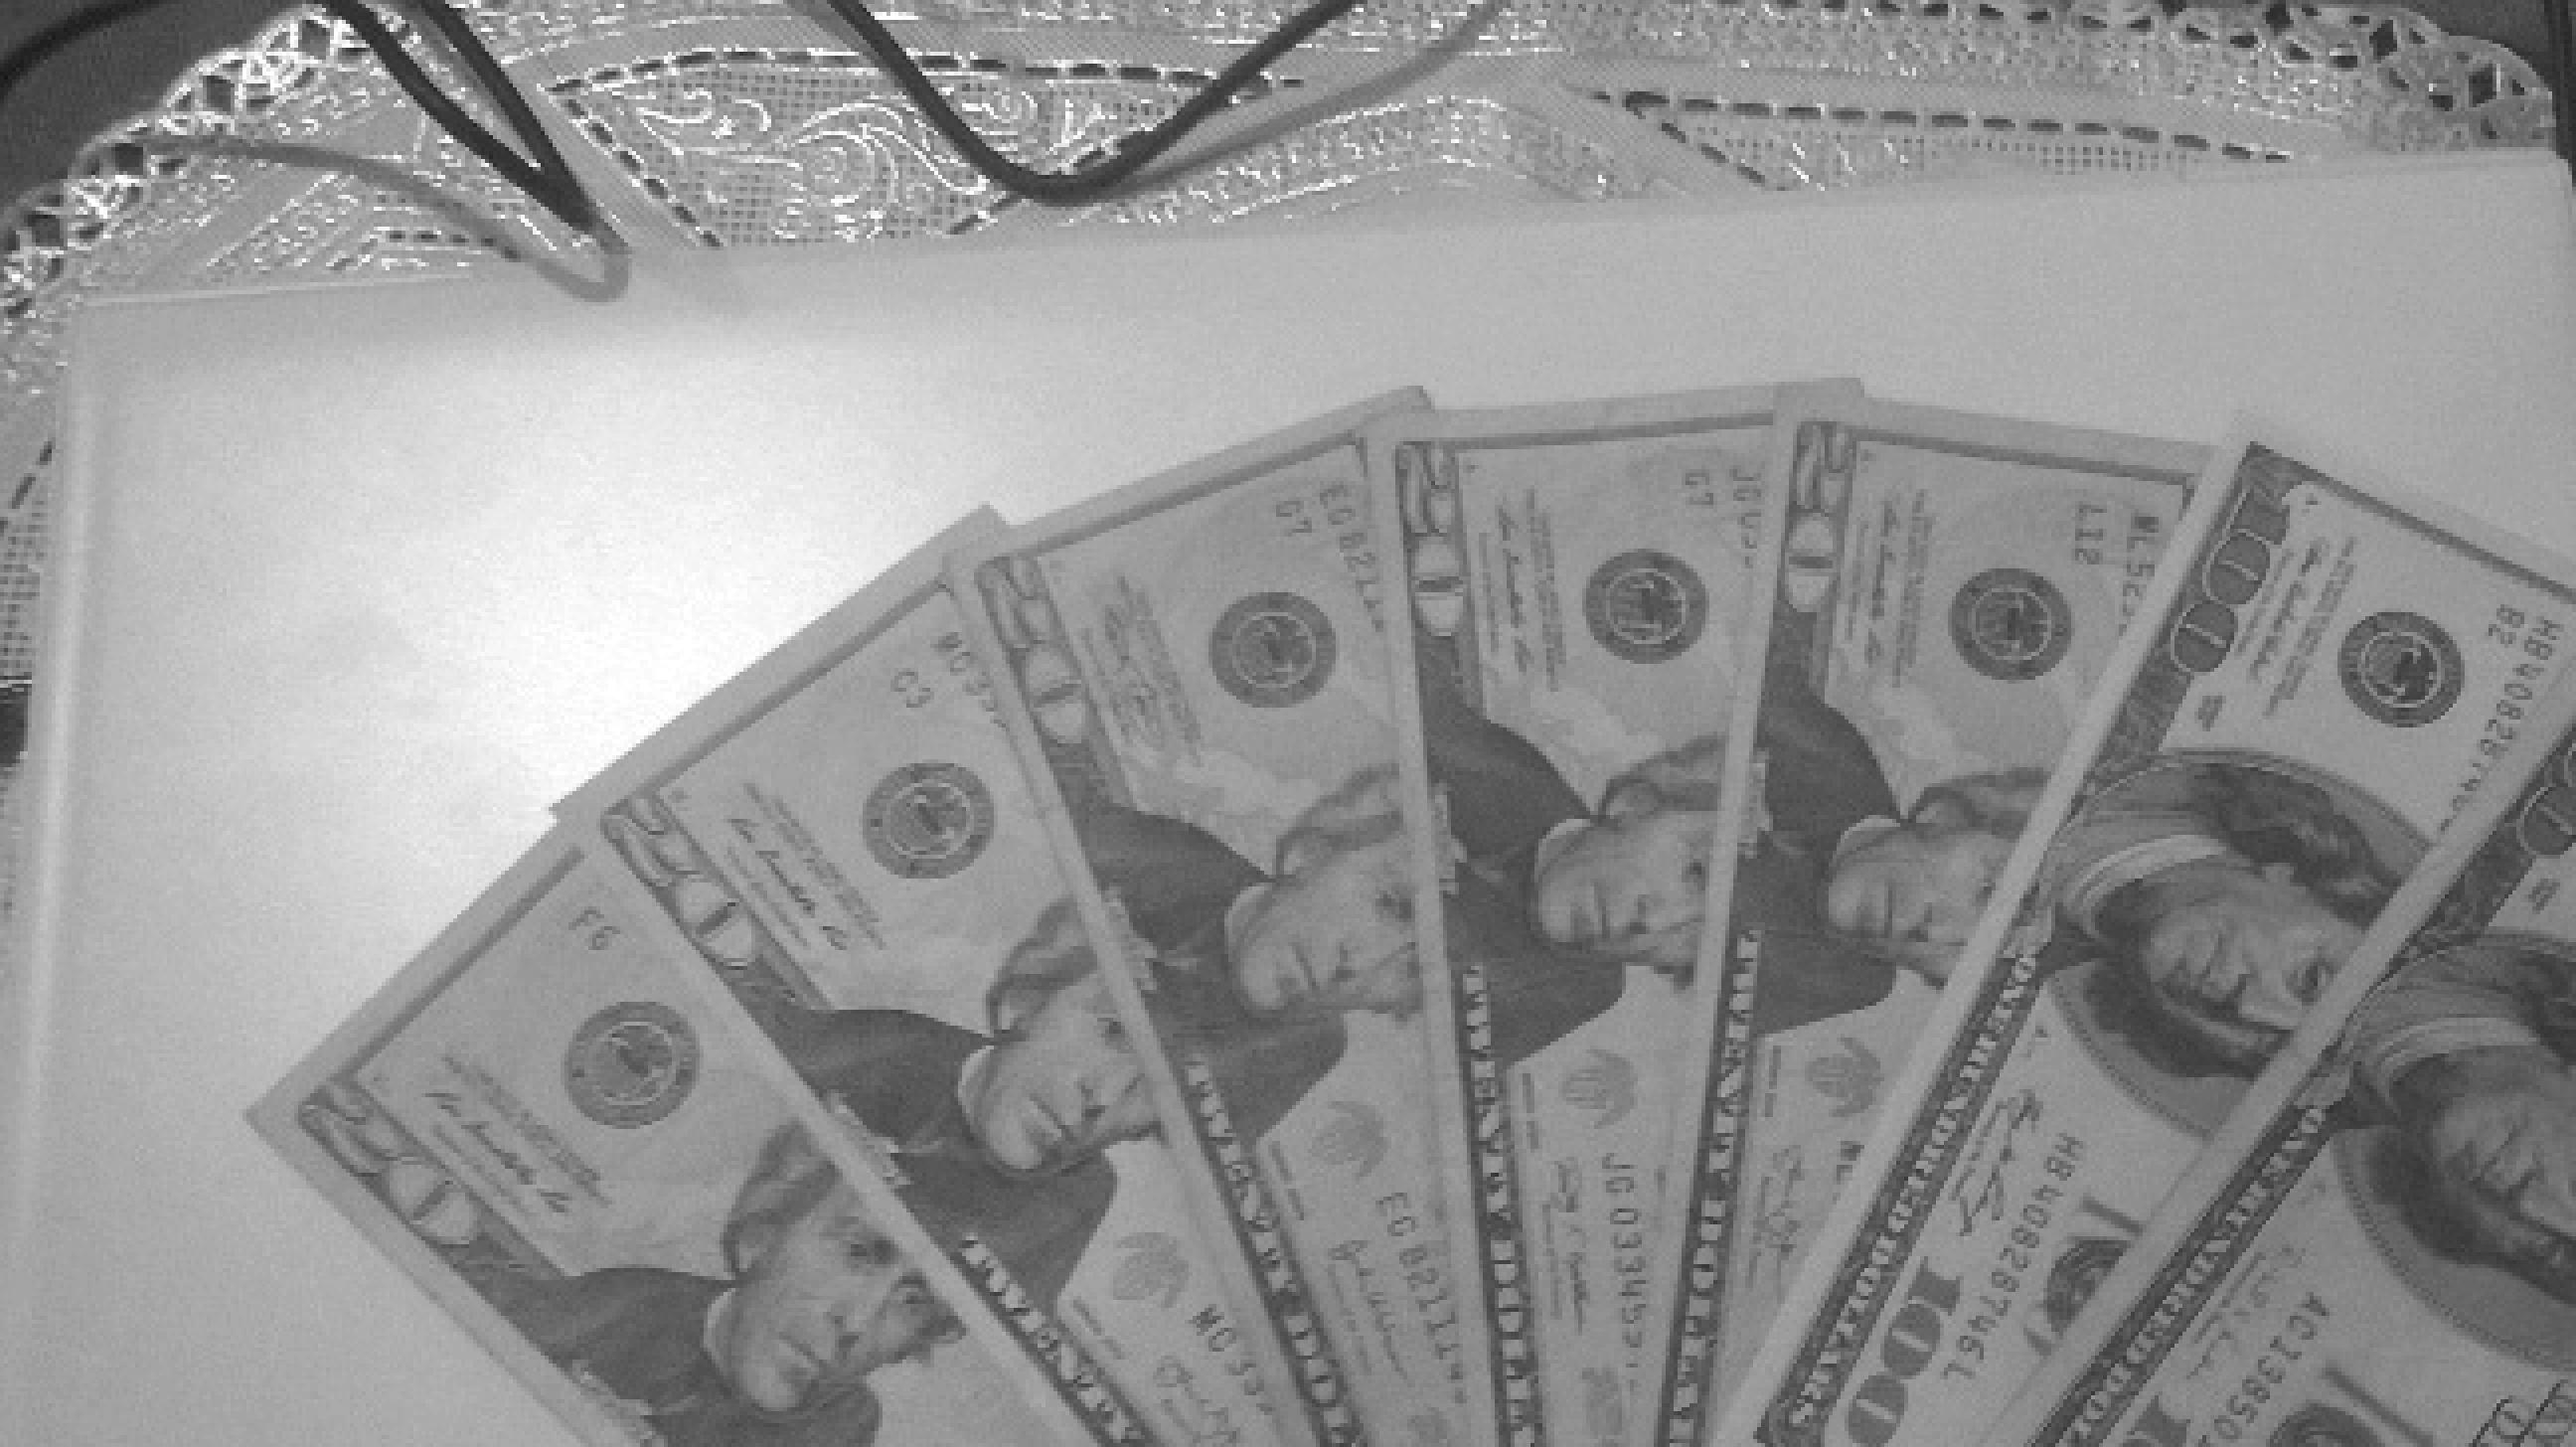
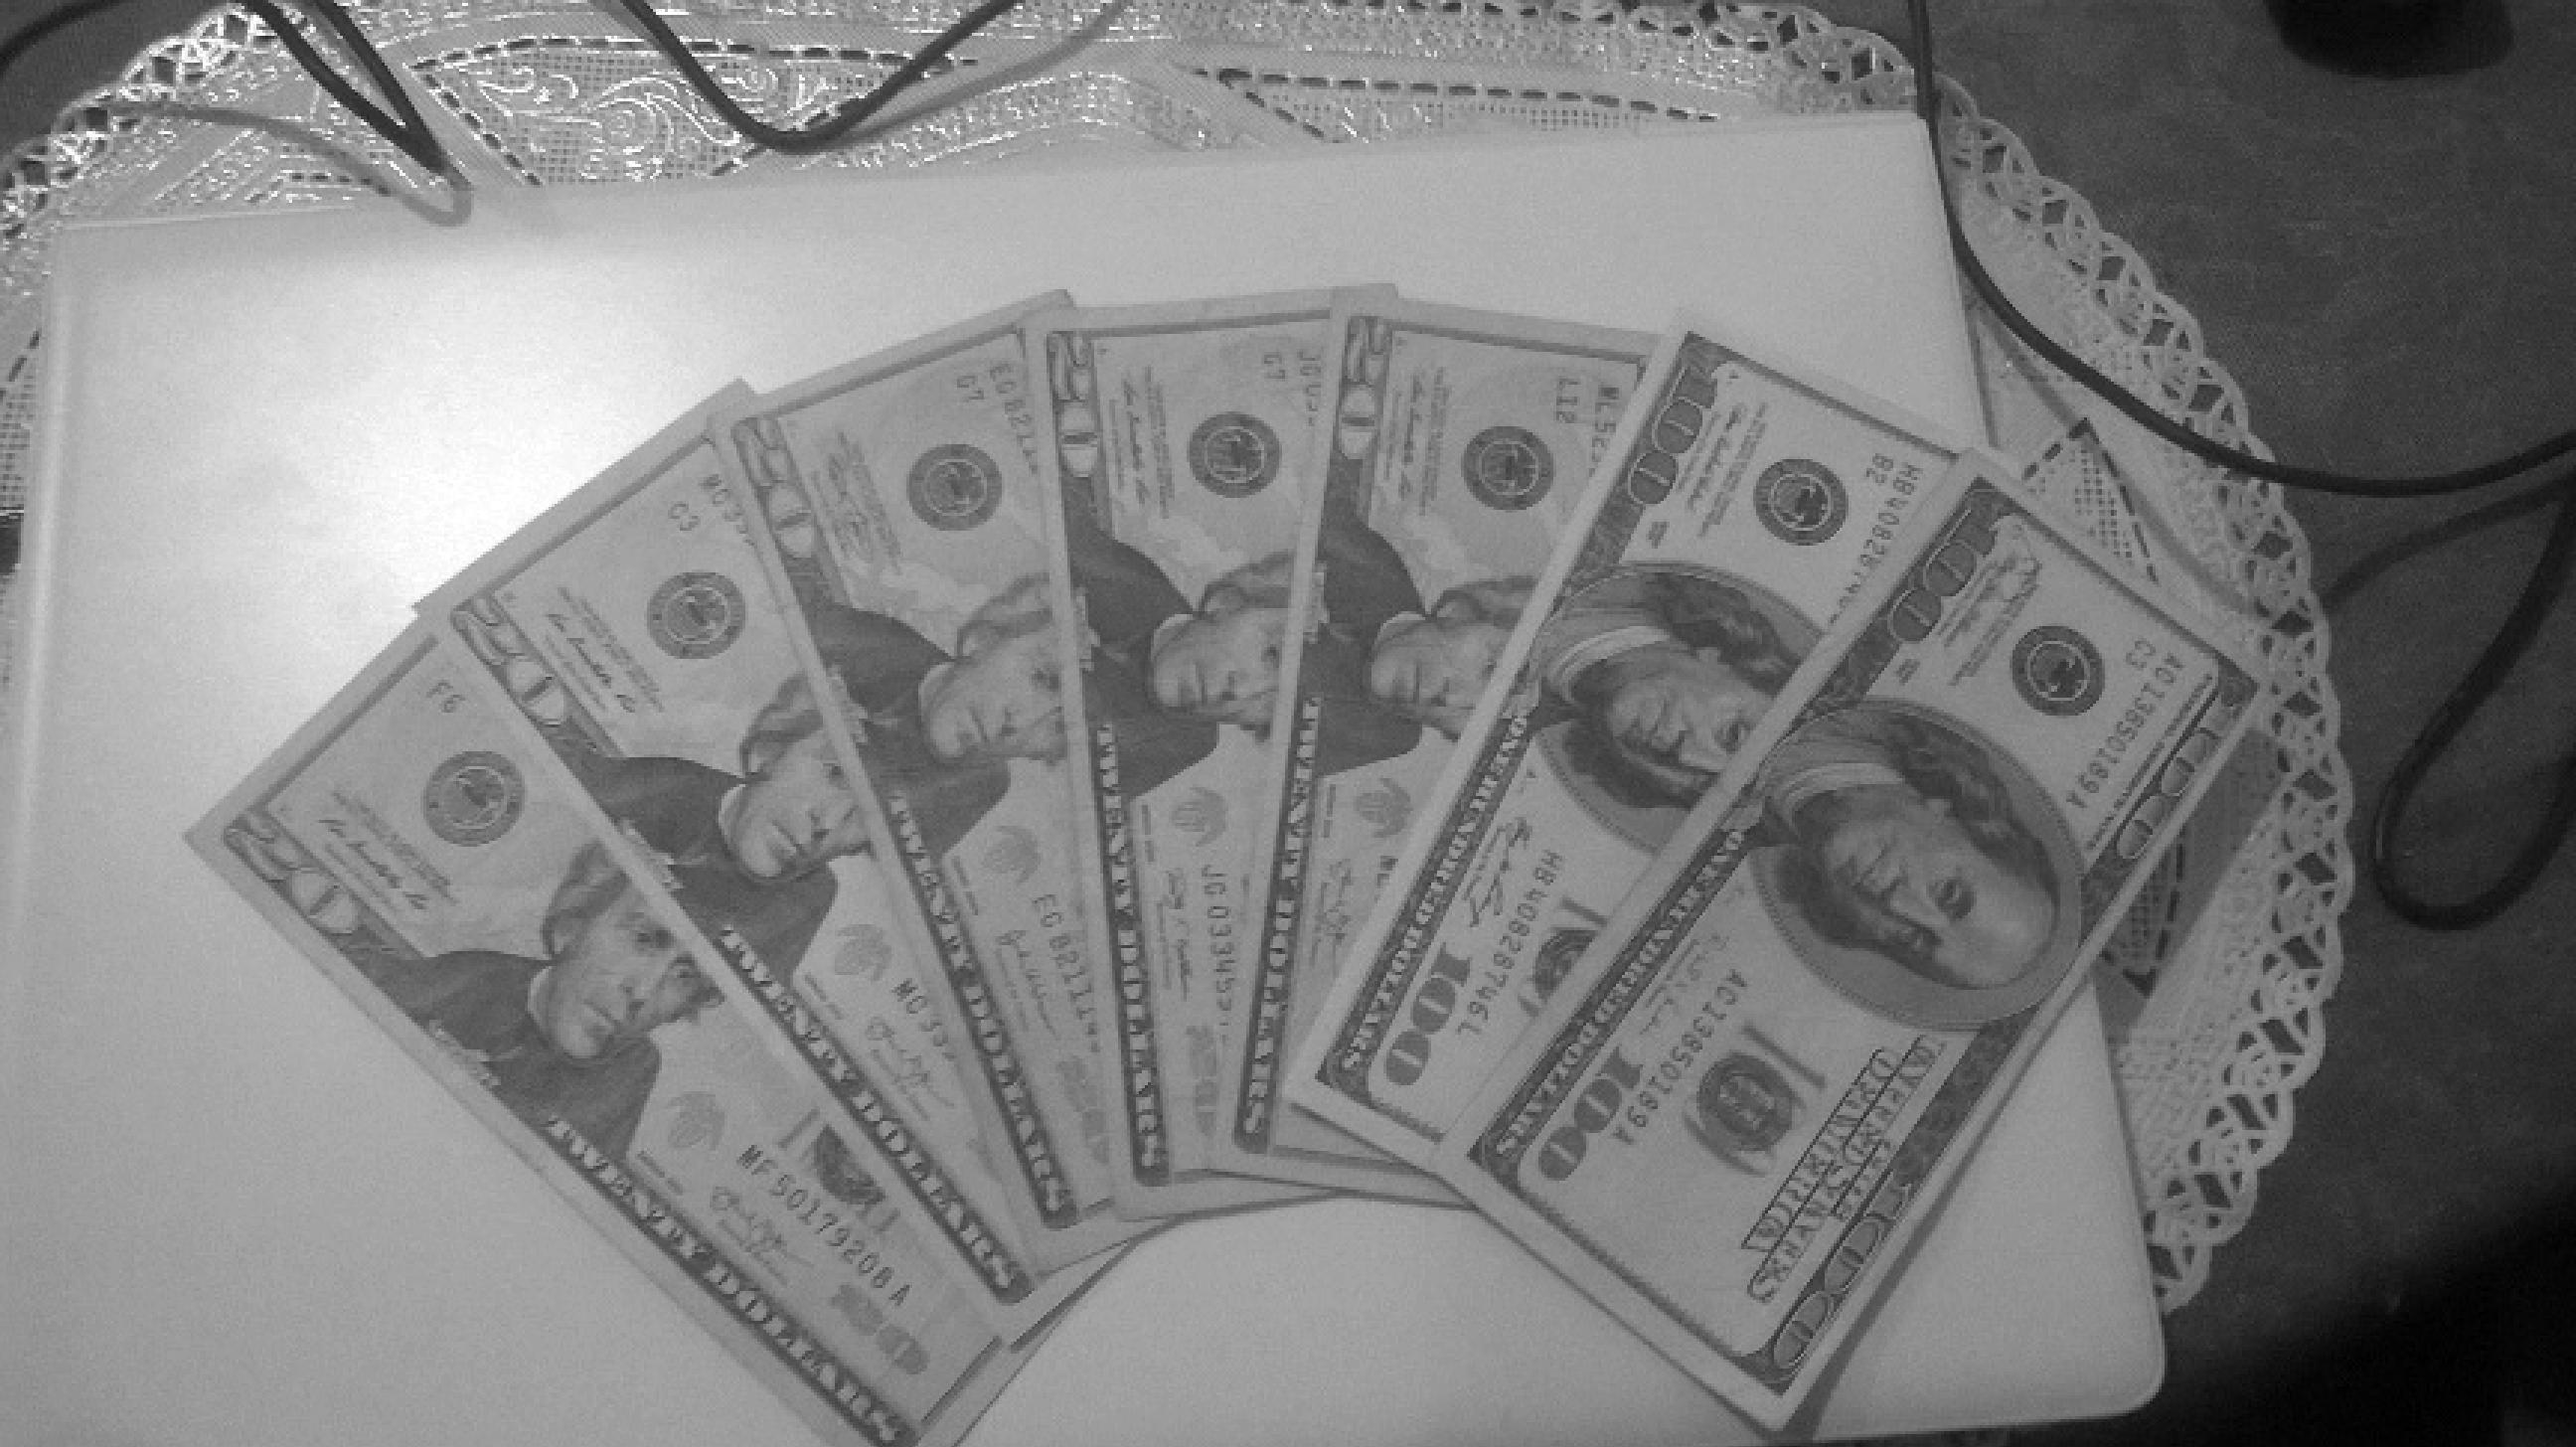
Algoritmo Ajustado

diff --git a/src/pdi/br/poli/ecomp/ConfigImage.java b/src/pdi/br/poli/ecomp/ConfigImage.java
@@ -1,7 +1,6 @@
 package pdi.br.poli.ecomp;
 
 import javax.imageio.ImageIO;
-import java.awt.*;
 import java.awt.image.BufferedImage;
 import java.io.File;
 import java.io.IOException;
@@ -23,33 +22,29 @@ public class ConfigImage {
     }
 
     public void zoonIn() {
-        try {
-            int n = origWidth / atualWidth;
-            int w = origWidth;
-            int h = origHeight;
-            File processedDir = new File("processed");
+            try {
+                int n =  origWidth / atualWidth + 1;
 
-            if (!processedDir.exists()) {
-                processedDir.mkdir();
+                int w = origWidth;
+                int h = origHeight;
+
+
+                BufferedImage atualImage = ImageIO.read(new File(name));
+                BufferedImage originalImage = new BufferedImage(w, h, atualImage.getType());
+                for (int y=0; y < h; ++y)
+                    for (int x=0; x < w; ++x)
+                        originalImage.setRGB(x, y, atualImage.getRGB(x/n, y/n));
+
+
+                File processedDir = new File("processed");
+                if (!processedDir.exists()) {
+                    processedDir.mkdir();
+                }
+                ImageIO.write(originalImage, "jpg", new File("processed//".concat(name)));
+                System.out.println(name + " was processed.");
+            } catch (IOException e) {
+                System.out.println("Erro ao processar a imagem '" + name + "': " + e.getMessage());
             }
-            BufferedImage atualImage = ImageIO.read(new File(name));
-            BufferedImage originalImage = new BufferedImage(w, h, atualImage.getType());
-            Graphics2D g = originalImage.createGraphics();
-            g.setColor(Color.WHITE);
-            g.fillRect(0, 0, originalImage.getWidth(), originalImage.getHeight());
-            g.dispose();
-
-            for (int y=0; y < h; ++y)
-                for (int x=0; x < w; ++x)
-                    originalImage.setRGB(x, y, atualImage.getRGB(x/n, y/n));
-
-
-            ImageIO.write(originalImage, "jpg", new File("processed//".concat(name)));
-            System.out.println(name + " was processed.");
-        } catch (IOException e) {
-            System.out.println("Erro ao processar a imagem '" + name + "': " + e.getMessage());
-        }
-
     }
 
     public void zoonOut() {

diff --git a/src/pdi/br/poli/ecomp/Main.java b/src/pdi/br/poli/ecomp/Main.java
@@ -30,7 +30,7 @@ public class Main {
         imagesToZoomOut.add(Zoom_out_2);
         imagesToZoomOut.add(Zoom_out_3);
         for (ConfigImage image : imagesToZoomOut) {
-                image.zoonOut();
+                //image.zoonOut();
         }
 
         System.out.println("--- pdi.br.poli.ecomp ---");
